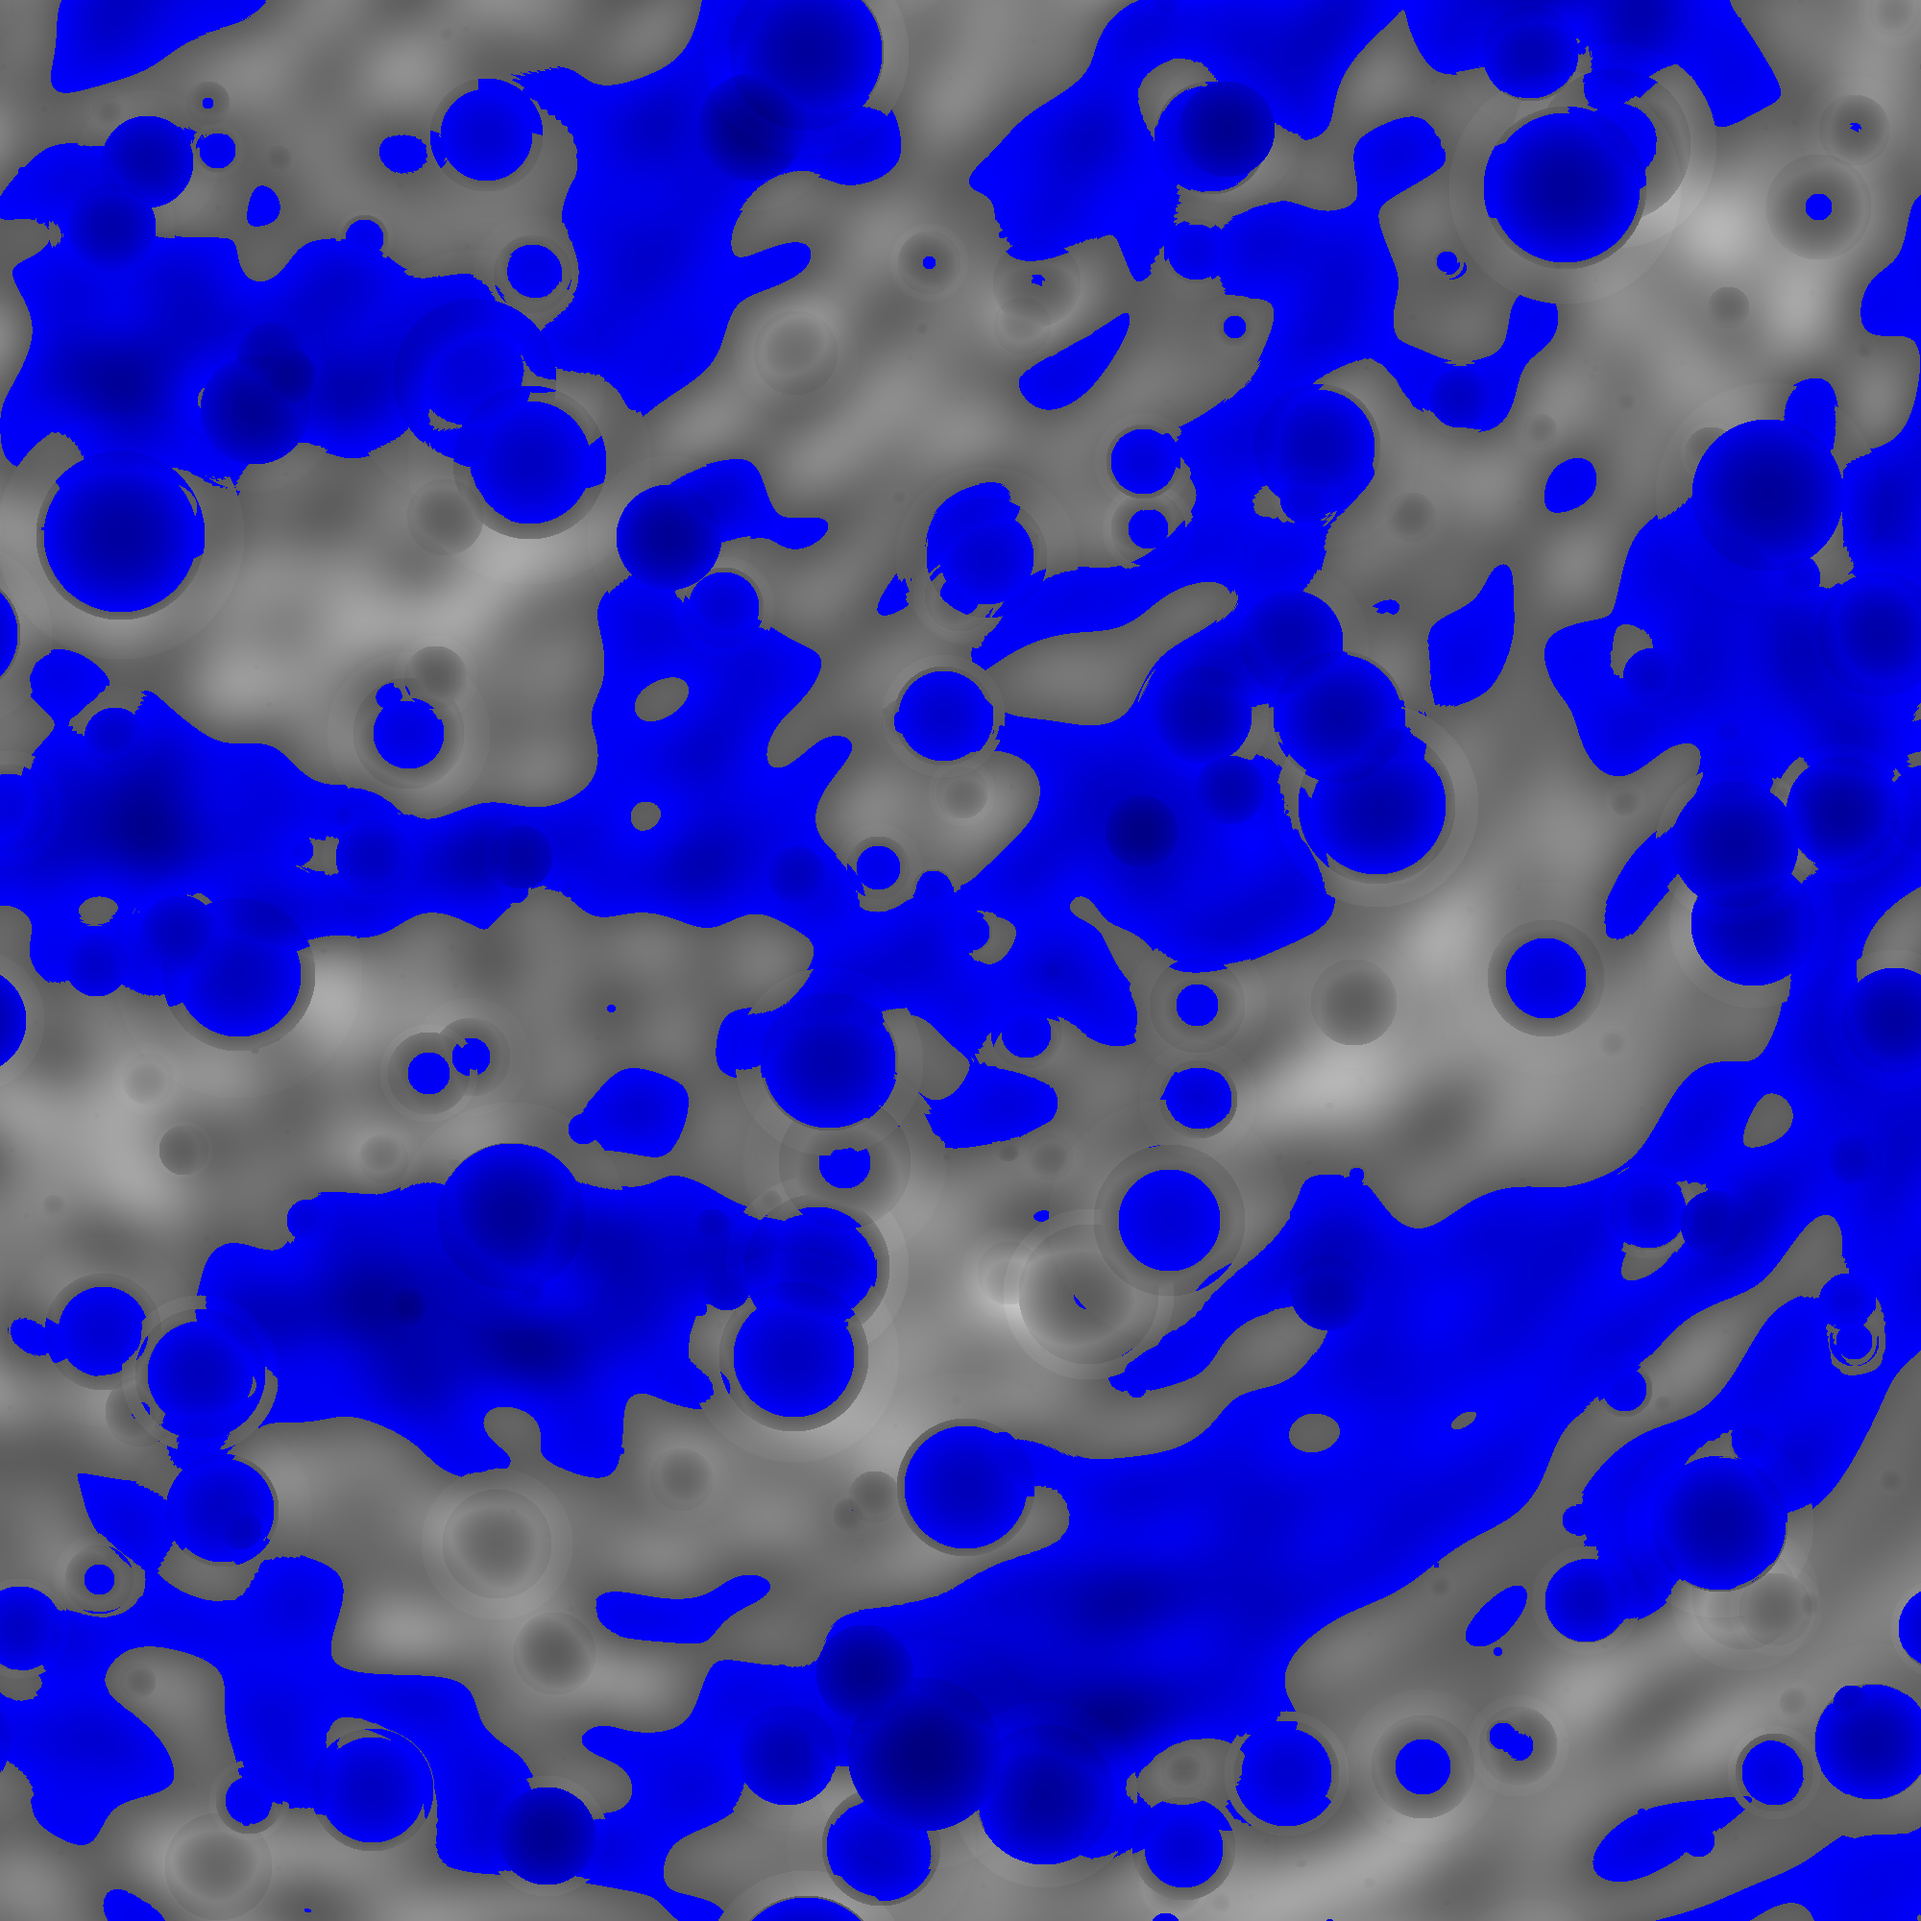
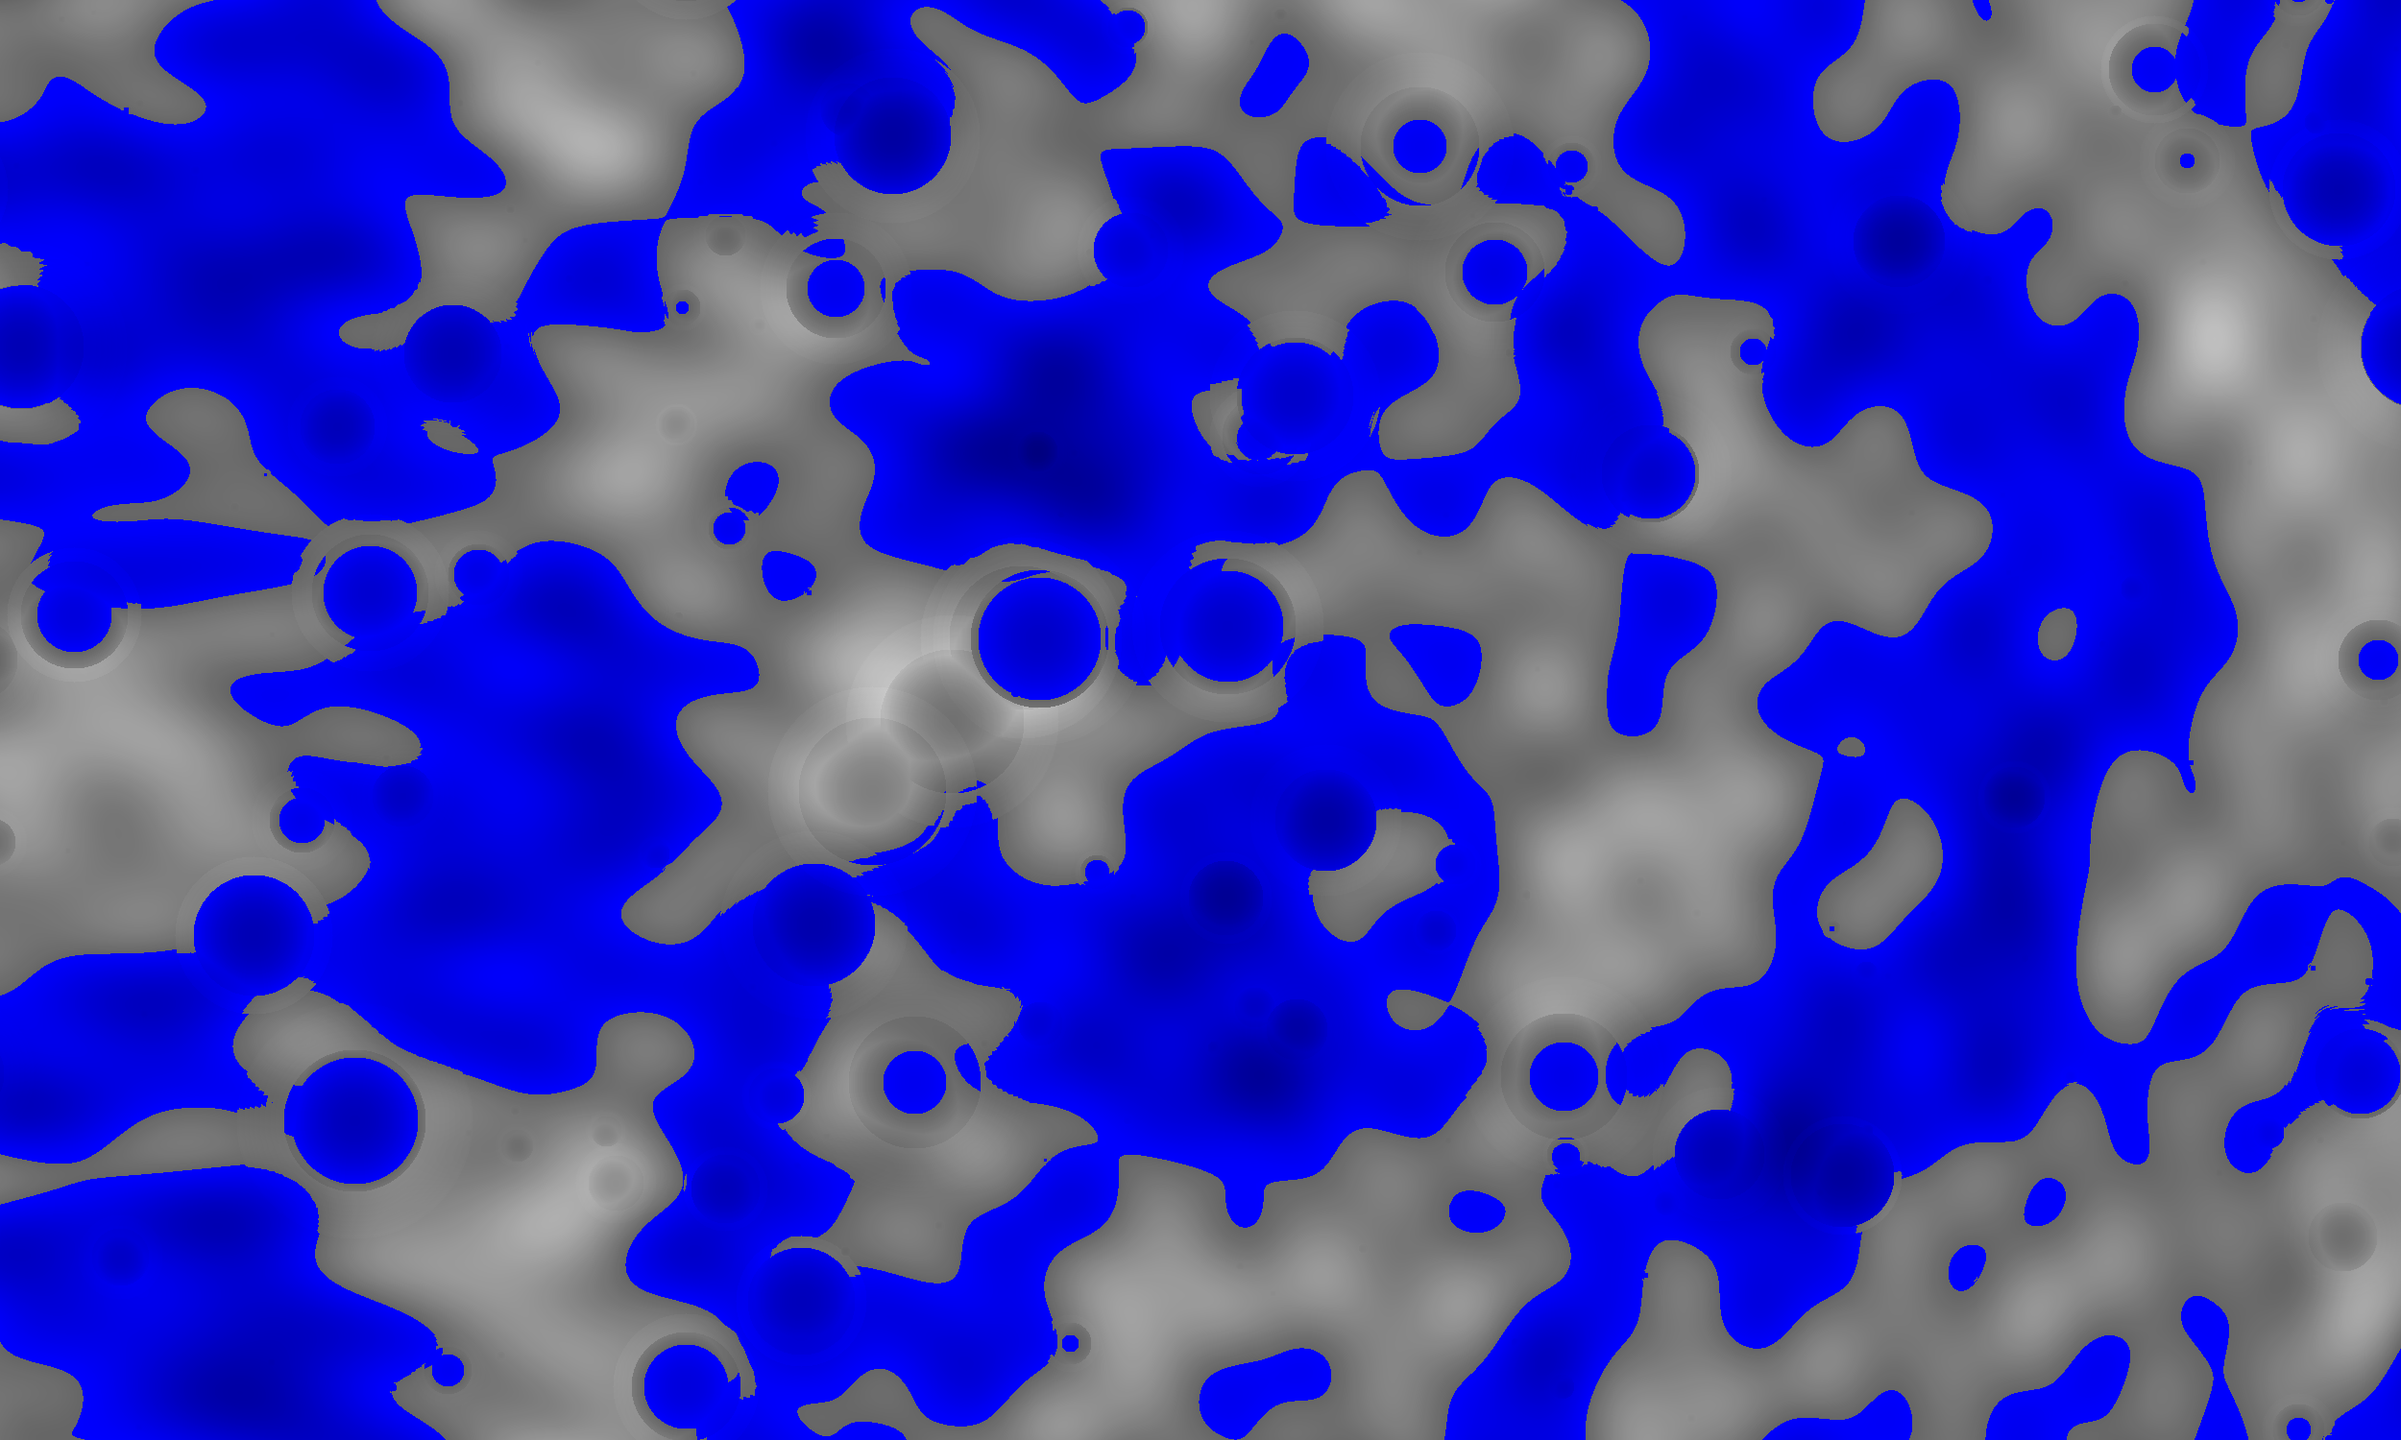
fixed bug with inverted indices being receiveded by map's individual tile getters and setters

diff --git a/mimic/src/modules/map.rs b/mimic/src/modules/map.rs
@@ -116,11 +116,11 @@ impl Map {
     }
 
     pub fn get_tile(&self, row: usize, col: usize) -> &Tile {
-        &self.tiles[col][row]
+        &self.tiles[row][col]
     }
 
     pub fn get_mut_tile(&mut self, row: usize, col: usize) -> &mut Tile {
-        &mut self.tiles[col][row]
+        &mut self.tiles[row][col]
     }
 
     pub fn get_water_percent_surface_area(&self) -> &f32 {
@@ -134,7 +134,7 @@ impl Map {
     //this will be used when needing to completely change a tile, rather than any time any
     //of one's data changes
     pub fn set_tile(&mut self, a_tile: Tile, row: usize, col: usize) {
-        self.tiles[col][row] = a_tile
+        self.tiles[row][col] = a_tile
     }
 
     pub fn get_attrs(&self) -> &MapAttrs {

diff --git a/mimic/src/modules/image_generator.rs b/mimic/src/modules/image_generator.rs
@@ -29,8 +29,8 @@ impl ImageGenerator {
     pub fn make_image(&self) -> Result<RgbImage, ImageError> {
         let mut image: RgbImage = ImageBuffer::new(*self.image_data.get_width(), *self.image_data.get_length());
 
-        for (x, row) in self.image_data.get_pixels().iter().enumerate() {
-            for (y, pixel) in row.iter().enumerate() {
+        for (y, row) in self.image_data.get_pixels().iter().enumerate() {
+            for (x, pixel) in row.iter().enumerate() {
                 image.put_pixel(x as u32, y as u32, Rgb([*pixel.get_r(), *pixel.get_g(), *pixel.get_b()]));
             }
         }

diff --git a/mimic/src/modules/map_attrs.rs b/mimic/src/modules/map_attrs.rs
@@ -38,11 +38,11 @@ impl MapAttrs {
 }
 
 pub fn default_width() -> usize {
-    2000
+    2500
 }
 
 pub fn default_length() -> usize {
-    2000
+    1500
 }
 
 //the 32-bit integer limit will be used as the default height of a tile
